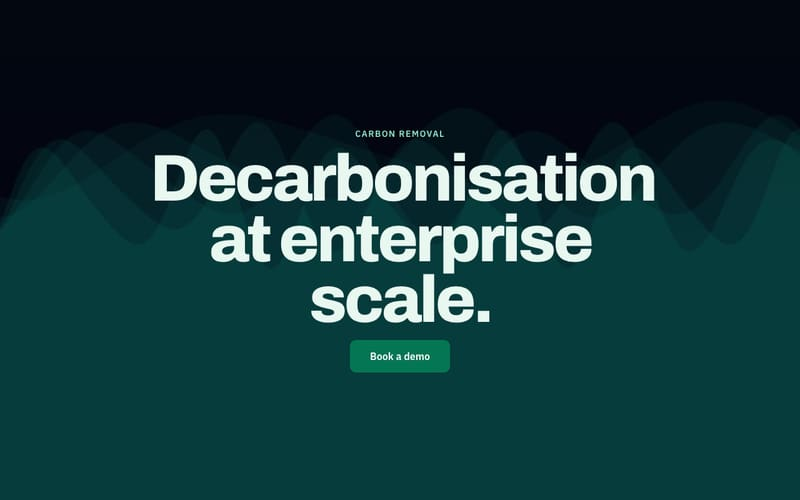
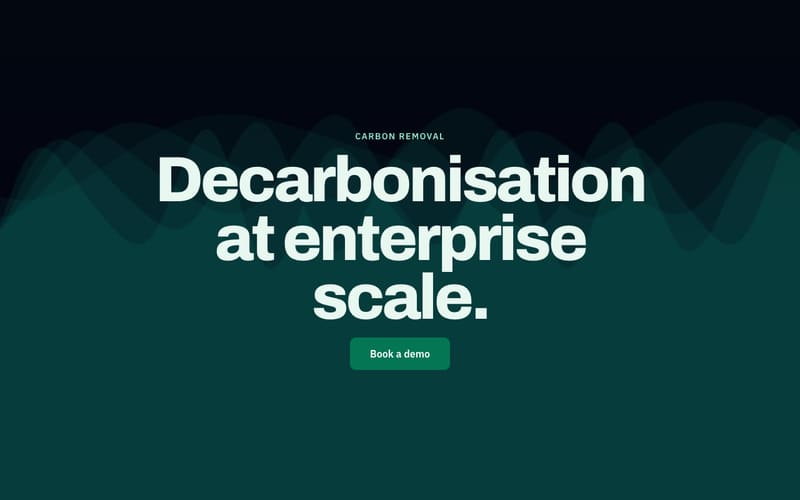
Shrink a heading whose widest word is wider than its column (#391)
* Shrink a heading whose widest word is wider than its column

Greenshift's statement word Decarbonisation is 1091px at 143px, wider than
any column, and the mask reveal clips at the box edge, so from 1440 wide
the heading read Decarbonisa. Every heading's size is now multiplied by
--sc-fit, which each renderer sets below 1 only for a heading whose widest
word overflows, after layout, after fonts load and on resize.

* Recapture Greenshift's still with its heading fitted to the column

Changed region(s): [[0.1875, 0.3, 0.8438, 0.75], [0.4375, 0.24, 0.5625, 0.3]]

diff --git a/src/__tests__/skillBuildSite.test.ts b/src/__tests__/skillBuildSite.test.ts
@@ -140,6 +140,31 @@ describe("skill build-site", () => {
     expect(rise.classes.has("visible")).toBe(false);
   });
 
+  it("shrinks a heading whose widest word is wider than its column", () => {
+    writeFrames(path.join(tmp, "frames"), [0]);
+    writeSpec({ sections: [{ heading: "Decarbonisation", kind: "statement" }] });
+    expect(build().status).toBe(0);
+    const out = html();
+    expect(out).toContain("* var(--sc-fit, 1)");
+    const block = /function fitHeadings\(\) \{[\s\S]*?window\.addEventListener\('resize', scheduleFit\);/.exec(out);
+    expect(block, "no heading fit in the bundle").toBeTruthy();
+
+    const heading = (scrollWidth: number, clientWidth: number) => {
+      const props: Record<string, string> = {};
+      return { scrollWidth, clientWidth, style: { setProperty: (k: string, v: string) => { props[k] = v; } }, props };
+    };
+    const wide = heading(1091, 800);
+    const fits = heading(640, 800);
+    const frames: (() => void)[] = [];
+    new Function("document", "window", "requestAnimationFrame", "cancelAnimationFrame", block![0])(
+      { querySelectorAll: () => [wide, fits] }, { addEventListener: () => {} }, (cb: () => void) => frames.push(cb), () => {}
+    );
+    frames.forEach((f) => f());
+
+    expect(wide.props["--sc-fit"]).toBe((0.98 / (1091 / 800)).toFixed(3));
+    expect(fits.props["--sc-fit"]).toBe("1");
+  });
+
   it("reports hasMobile false when no mobile set is supplied", () => {
     writeFrames(path.join(tmp, "frames"), [0]);
     writeSpec({ sections: [{ heading: "A" }] });

diff --git a/src/__tests__/displayParity.test.ts b/src/__tests__/displayParity.test.ts
@@ -67,7 +67,7 @@ describe("the display treatment has one definition", () => {
     for (const size of sizes) expect(size).toMatch(/min\(\d+(\.\d+)?vw,\d+(\.\d+)?vh\)/);
     // The plugin engine keeps its own copy of the scales and the statement size.
     for (const [name, s] of Object.entries(TYPE_SCALES)) expect(BUILD_SITE).toContain(`${name}: { heading: "${s.heading}"`);
-    expect(ENGINE_CSS).toMatch(/\.sc-statement \{\s*font-size: clamp\(2\.75rem, min\(\d+(\.\d+)?vw, \d+(\.\d+)?vh\), 9rem\);/);
+    expect(ENGINE_CSS).toMatch(/\.sc-statement \{\s*font-size: calc\(clamp\(2\.75rem, min\(\d+(\.\d+)?vw, \d+(\.\d+)?vh\), 9rem\) \* var\(--sc-fit, 1\)\);/);
   });
 
   it("gives the copy a column as wide as the layout's max width in every renderer", () => {
@@ -75,5 +75,11 @@ describe("the display treatment has one definition", () => {
     // 1920 wide the copy had 364px and 39 headings across 16 templates ran past their box.
     expect(PREVIEW).toContain('maxWidth: L.maxWidth, boxSizing: "content-box"');
     for (const src of [ROUTE, BUILD_SITE]) expect(src).toContain("max-width:${L.maxWidth}px; box-sizing:content-box;");
+  });
+
+  it("lets every renderer shrink a heading to its column", () => {
+    for (const size of [DISPLAY_STYLES.heading.fontSize, DISPLAY_STYLES.statement.fontSize]) expect(size).toContain("* var(--sc-fit, 1))");
+    expect(BUILD_SITE).toContain("* var(--sc-fit, 1));");
+    expect(PREVIEW).toContain('h.style.setProperty("--sc-fit", Math.max(0.5, 0.98 / over).toFixed(3))');
   });
 });

diff --git a/src/__tests__/exportSectionParity.test.ts b/src/__tests__/exportSectionParity.test.ts
@@ -427,3 +427,29 @@ describe("the exported CTA uses the theme's corner radius", () => {
     expect(html).toContain("--sc-radius:20px");
   });
 });
+
+describe("exported headings fit their column", () => {
+  it("shrinks a heading whose widest word is wider than its column", async () => {
+    // Greenshift's "Decarbonisation" is 1091px at 143px, wider than any column, and its
+    // mask reveal clipped it at the box edge.
+    const html = await exportHtml([{ heading: "Decarbonisation", kind: "statement", scrollHeight: 1000 }]);
+    expect(html).toContain("* var(--sc-fit, 1)");
+    const script = /\(function\(\) \{\s*\/\/ A single word wider than its column[\s\S]*?\}\)\(\);/.exec(html);
+    expect(script, "no heading fit in the export").toBeTruthy();
+
+    const heading = (scrollWidth: number, clientWidth: number) => {
+      const props: Record<string, string> = {};
+      return { scrollWidth, clientWidth, style: { setProperty: (k: string, v: string) => { props[k] = v; } }, props };
+    };
+    const wide = heading(1091, 800);
+    const fits = heading(640, 800);
+    const frames: (() => void)[] = [];
+    new Function("document", "window", "requestAnimationFrame", "cancelAnimationFrame", script![0])(
+      { querySelectorAll: () => [wide, fits] }, { addEventListener: () => {} }, (cb: () => void) => frames.push(cb), () => {}
+    );
+    frames.forEach((f) => f());
+
+    expect(wide.props["--sc-fit"]).toBe((0.98 / (1091 / 800)).toFixed(3));
+    expect(fits.props["--sc-fit"]).toBe("1");
+  });
+});

diff --git a/src/components/SiteRenderer.tsx b/src/components/SiteRenderer.tsx
@@ -97,6 +97,35 @@ export default function SiteRenderer({
     return () => io.disconnect();
   }, [sections]);
 
+  // A single word wider than its column, a long word in a statement at 9rem, runs past
+  // the box, and a mask reveal clips it there. Shrink that heading until it fits.
+  useEffect(() => {
+    const root = stageRef.current;
+    if (!root) return;
+    let live = true;
+    let raf = 0;
+    const fit = () => {
+      root.querySelectorAll<HTMLElement>(".sc-reveal h1, .sc-reveal h2").forEach((h) => {
+        h.style.setProperty("--sc-fit", "1");
+        const over = h.clientWidth ? h.scrollWidth / h.clientWidth : 1;
+        if (over > 1.005) h.style.setProperty("--sc-fit", Math.max(0.5, 0.98 / over).toFixed(3));
+      });
+    };
+    const schedule = () => {
+      if (!live) return;
+      cancelAnimationFrame(raf);
+      raf = requestAnimationFrame(fit);
+    };
+    schedule();
+    document.fonts?.ready.then(schedule);
+    window.addEventListener("resize", schedule);
+    return () => {
+      live = false;
+      cancelAnimationFrame(raf);
+      window.removeEventListener("resize", schedule);
+    };
+  }, [sections, theme]);
+
   const compiled = compileTheme(theme);
   const visible = sections.filter((s) => s.visible !== false);
   const firstHeadingIndex = visible.findIndex((s) => s.heading);

diff --git a/src/app/api/export-site/route.ts b/src/app/api/export-site/route.ts
@@ -684,6 +684,22 @@ export async function POST(req: NextRequest) {
       }, { threshold: 0.1, rootMargin: '0px 0px -8% 0px' });
       contents.forEach(function(el) { observer.observe(watched(el)); });
     })();
+    (function() {
+      // A single word wider than its column runs past the box, and a mask reveal clips it
+      // there. Shrink that heading until it fits, as the preview does.
+      function fit() {
+        document.querySelectorAll('.section-content h1, .section-content h2').forEach(function(h) {
+          h.style.setProperty('--sc-fit', '1');
+          var over = h.clientWidth ? h.scrollWidth / h.clientWidth : 1;
+          if (over > 1.005) h.style.setProperty('--sc-fit', Math.max(0.5, 0.98 / over).toFixed(3));
+        });
+      }
+      var raf = 0;
+      function schedule() { cancelAnimationFrame(raf); raf = requestAnimationFrame(fit); }
+      schedule();
+      if (document.fonts && document.fonts.ready) document.fonts.ready.then(schedule);
+      window.addEventListener('resize', schedule);
+    })();
   </script>
 </body>
 </html>`;

diff --git a/src/lib/displayStyles.ts b/src/lib/displayStyles.ts
@@ -9,6 +9,9 @@
  *
  * Every field is a CSS value with the theme's custom property first, so a theme that sets
  * displayWeight or displayTracking still wins.
+ *
+ * --sc-fit is set on a heading by the renderers, below 1 only when its widest word is
+ * wider than its column.
  */
 export interface DisplayStyle {
   fontSize: string;
@@ -19,13 +22,13 @@ export interface DisplayStyle {
 
 export const DISPLAY_STYLES: Record<"heading" | "statement", DisplayStyle> = {
   heading: {
-    fontSize: "var(--sc-heading-size, clamp(2rem,min(5vw,6vh),4rem))",
+    fontSize: "calc(var(--sc-heading-size, clamp(2rem,min(5vw,6vh),4rem)) * var(--sc-fit, 1))",
     fontWeight: "var(--sc-display-weight, 900)",
     lineHeight: 1,
     letterSpacing: "var(--sc-display-tracking, -0.03em)",
   },
   statement: {
-    fontSize: "clamp(2.75rem,min(11vw,13.2vh),9rem)",
+    fontSize: "calc(clamp(2.75rem,min(11vw,13.2vh),9rem) * var(--sc-fit, 1))",
     fontWeight: "var(--sc-display-weight, 800)",
     lineHeight: 0.92,
     letterSpacing: "var(--sc-display-tracking, -0.045em)",

diff --git a/plugins/scrollcraft/skills/scrollcraft/engine/scrollcraft.runtime.js b/plugins/scrollcraft/skills/scrollcraft/engine/scrollcraft.runtime.js
@@ -161,6 +161,21 @@
     Array.prototype.forEach.call(reveal, function (el) { el.classList.add('visible'); });
   }
 
+  // A single word wider than its column runs past the box, and a mask reveal clips it
+  // there. Shrink that heading until it fits.
+  function fitHeadings() {
+    Array.prototype.forEach.call(document.querySelectorAll('.section-content h1, .section-content h2'), function (h) {
+      h.style.setProperty('--sc-fit', '1');
+      var over = h.clientWidth ? h.scrollWidth / h.clientWidth : 1;
+      if (over > 1.005) h.style.setProperty('--sc-fit', Math.max(0.5, 0.98 / over).toFixed(3));
+    });
+  }
+  var fitFrame = 0;
+  function scheduleFit() { cancelAnimationFrame(fitFrame); fitFrame = requestAnimationFrame(fitHeadings); }
+  scheduleFit();
+  if (document.fonts && document.fonts.ready) document.fonts.ready.then(scheduleFit);
+  window.addEventListener('resize', scheduleFit);
+
   if (__HAS_AUDIO__) {
     var audio = new Audio('__AUDIO_SRC__');
     audio.loop = true;

diff --git a/plugins/scrollcraft/skills/scrollcraft/engine/scrollcraft.css b/plugins/scrollcraft/skills/scrollcraft/engine/scrollcraft.css
@@ -57,7 +57,7 @@ body {
 .section-content[data-reveal="stagger"].visible > *:nth-child(n+5) { transition-delay: 360ms; }
 
 .sc-statement {
-  font-size: clamp(2.75rem, min(11vw, 13.2vh), 9rem);
+  font-size: calc(clamp(2.75rem, min(11vw, 13.2vh), 9rem) * var(--sc-fit, 1));
   font-weight: var(--sc-display-weight, 800);
   line-height: 0.92;
   letter-spacing: var(--sc-display-tracking, -0.045em);
